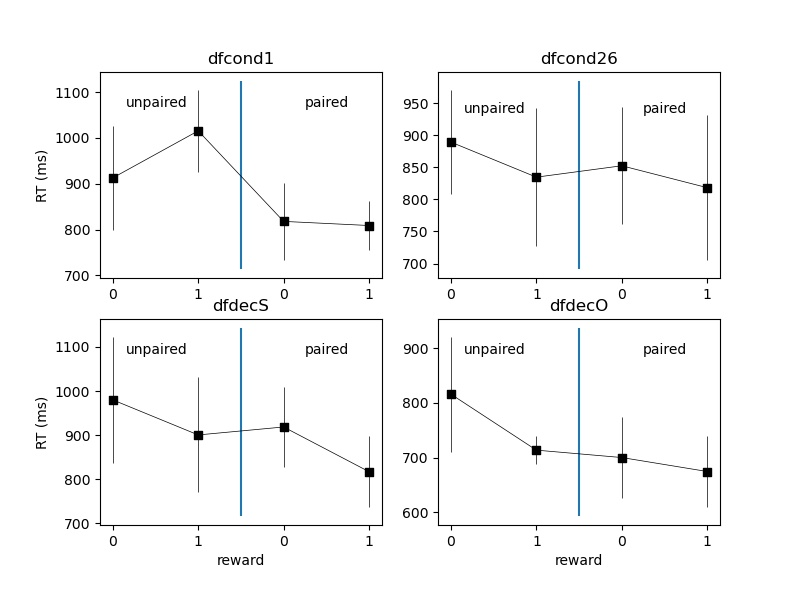
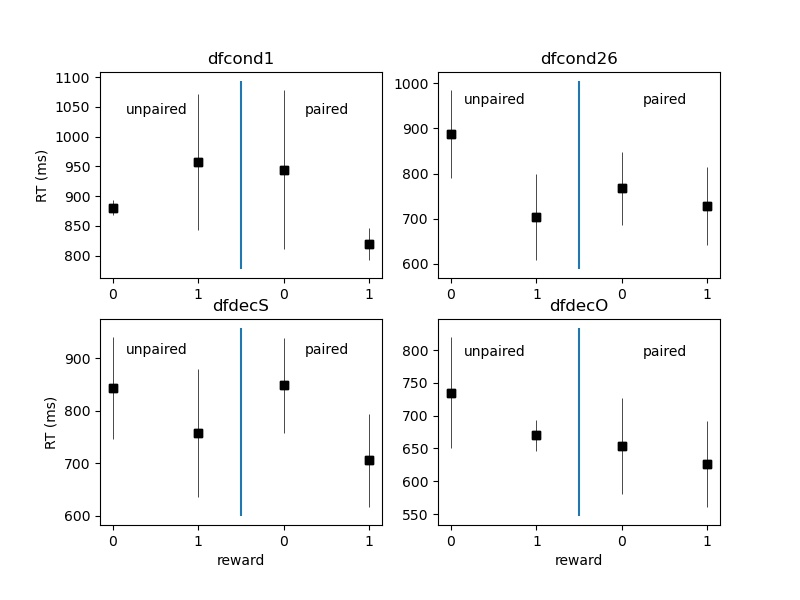
switch to median

diff --git a/Ana2better.py b/Ana2better.py
@@ -126,7 +126,8 @@ for participant in range(len(part_files)):
     liststock=processpart(participant_file)
     for i in range(4):
         DFc = liststock[i]
-        y = DFc[["correct", "paired", "Reward", "RT"]].groupby(["paired", "Reward"]).mean()
+        DFc = DFc[DFc["correct"]==1]                                                        #remove errortrials
+        y = DFc[["correct", "paired", "Reward", "RT"]].groupby(["paired", "Reward"]).mean() #create sun stats
         y["participant"]= participant
         y["phase"]= phases[i]
         y.reset_index(level=0, inplace=True)
@@ -136,8 +137,7 @@ for participant in range(len(part_files)):
 result = pd.concat(frames)
 
 
-
-x=result[["phase","correct", "paired", "Reward", "RT"]].groupby(["phase","paired", "Reward"]).mean()
+x=result[["phase","correct", "paired", "Reward", "RT"]].groupby(["phase","paired", "Reward"]).median()
 print(x)
 
 
@@ -151,7 +151,7 @@ for i in range(4):
     plt.ylim([500,1300])
     
 #%% nicer figures mean + sd
-avg=result[["phase","correct", "paired", "Reward", "RT"]].groupby(["phase","paired", "Reward"]).mean()
+avg=result[["phase","correct", "paired", "Reward", "RT"]].groupby(["phase","paired", "Reward"]).median()
 avg.reset_index(level=0, inplace=True)
 
 std=result[["phase","correct", "paired", "Reward", "RT"]].groupby(["phase","paired", "Reward"]).std()
@@ -162,8 +162,8 @@ for i in range(4):
     plt.subplot(2,2,i+1)
     dats = list(avg[avg["phase"]==phases[i]]["RT"])
     sem = np.array(list(std[std["phase"]==phases[i]]["RT"]))/np.sqrt(len(part_files))
-    plt.errorbar([1,2,3,4],dats,sem, ecolor="black", c="black",linewidth=.5)
-    plt.scatter([1,2,3,4],dats, marker="s", c="black")
+    plt.errorbar([1,2,3,4],dats,sem, ecolor="black", c="black",linewidth=0, marker="s",elinewidth=.5)
+    plt.scatter([1,2,3,4],dats, marker="s", c="black",zorder=1)
     # plt.ylim([600,1100])
     plt.xticks([1,2,3,4], [0,1,0,1])
     lims = plt.gca().get_ylim()
@@ -180,7 +180,7 @@ plt.savefig('rewardspaired.jpg')
 
 #%%
 #%% nicer figures mean + sd REWARD
-avg=result[["phase","correct", "paired", "Reward", "RT"]].groupby(["phase", "Reward"]).mean()
+avg=result[["phase","correct", "paired", "Reward", "RT"]].groupby(["phase", "Reward"]).median()
 avg.reset_index(level=0, inplace=True)
 
 std=result[["phase","correct", "paired", "Reward", "RT"]].groupby(["phase", "Reward"]).std()
@@ -205,7 +205,7 @@ for i in range(4):
         plt.ylabel("RT (ms)")
 plt.savefig('rewards.jpg')
 #%% nicer figures mean + sd PAIRED
-avg=result[["phase","correct", "paired", "Reward", "RT"]].groupby(["phase", "paired"]).mean()
+avg=result[["phase","correct", "paired", "Reward", "RT"]].groupby(["phase", "paired"]).median()
 avg.reset_index(level=0, inplace=True)
 
 std=result[["phase","correct", "paired", "Reward", "RT"]].groupby(["phase", "paired"]).std()
